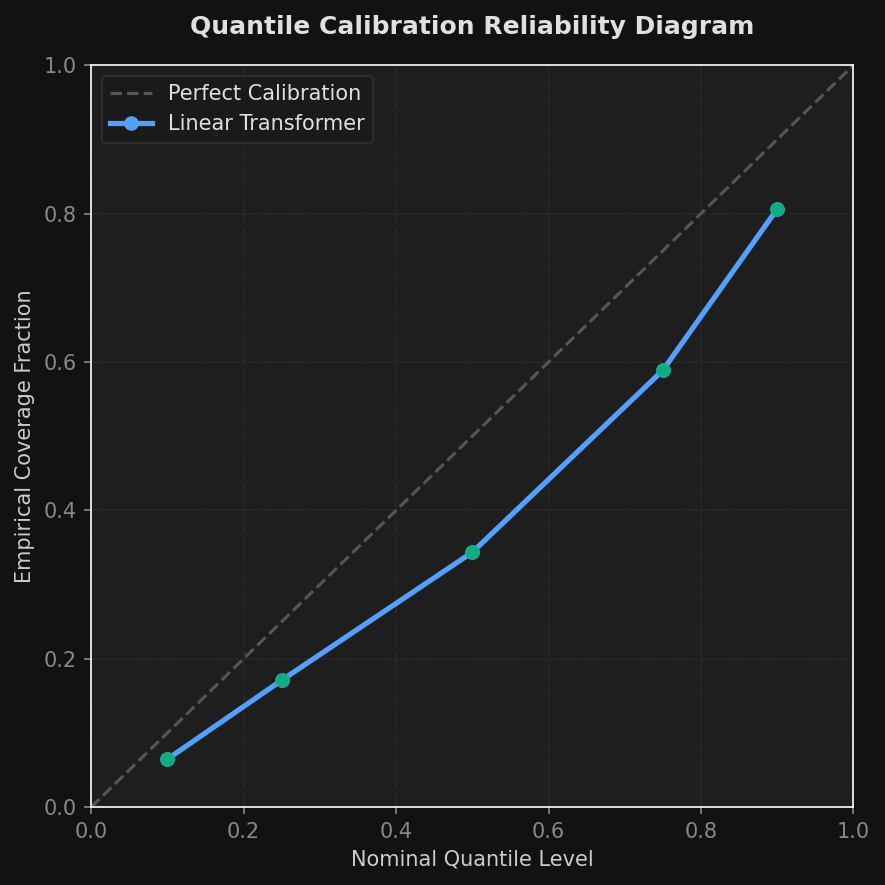
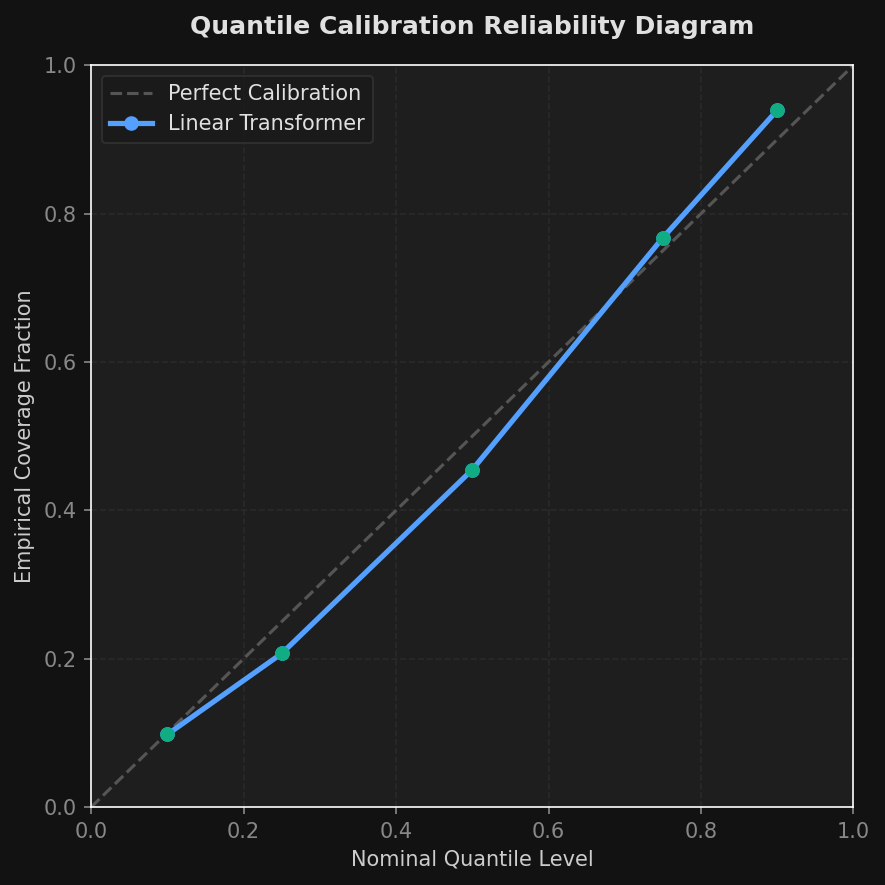
feat: add real Jena Climate dataset support (--real-data flag)

diff --git a/src/data.py b/src/data.py
@@ -55,6 +55,63 @@ def generate_synthetic_data(num_series=10, num_days=365 * 3, seed=42):
         
     return pd.concat(all_data, ignore_index=True)
 
+def load_jena_climate(resample_freq='6h', seed=42):
+    """
+    Loads the Jena Climate dataset (real weather time-series data).
+    Source: Max Planck Institute for Biogeochemistry.
+    Features: Temperature, Pressure, Humidity, Wind, etc.
+    Resolution: Originally 10-min intervals, resampled to 6-hour blocks.
+    """
+    import urllib.request
+    import zipfile
+    import os
+
+    cache_dir = os.path.join(os.path.dirname(os.path.abspath(__file__)), '..', 'data')
+    os.makedirs(cache_dir, exist_ok=True)
+    csv_path = os.path.join(cache_dir, 'jena_climate_2009_2016.csv')
+
+    if not os.path.exists(csv_path):
+        print("Downloading Jena Climate dataset...")
+        url = 'https://storage.googleapis.com/tensorflow/tf-keras-datasets/jena_climate_2009_2016.csv.zip'
+        zip_path = os.path.join(cache_dir, 'jena_climate.zip')
+        urllib.request.urlretrieve(url, zip_path)
+        with zipfile.ZipFile(zip_path, 'r') as z:
+            z.extractall(cache_dir)
+        os.remove(zip_path)
+        print("Download complete.")
+
+    df = pd.read_csv(csv_path)
+    df['Date Time'] = pd.to_datetime(df['Date Time'], format='%d.%m.%Y %H:%M:%S')
+    df = df.set_index('Date Time')
+
+    # Resample to reduce granularity (10-min -> 6-hour means)
+    df = df.resample(resample_freq).mean().dropna()
+
+    # We'll forecast 'T (degC)' (temperature) as the target series
+    # Create multiple "series" from different weather variables for multi-series forecasting
+    # We'll treat each column as a separate univariate series
+    target_col = 'T (degC)'
+
+    # Build a DataFrame matching the synthetic data format
+    all_data = []
+    # Use temperature and 3 other key variables as separate series
+    series_cols = ['T (degC)', 'p (mbar)', 'rh (%)', 'wv (m/s)']
+
+    for i, col in enumerate(series_cols):
+        series_df = pd.DataFrame({
+            'date': df.index,
+            'series_id': f'weather_{col.split(" ")[0]}',
+            'sales': df[col].values,  # reuse 'sales' column name to match the existing contract
+            'day_of_week': df.index.dayofweek,
+            'month': df.index.month,
+            'day_of_year': df.index.dayofyear,
+            'is_event': 0.0  # no events in weather data
+        })
+        all_data.append(series_df)
+
+    result = pd.concat(all_data, ignore_index=True)
+    return result
+
 def create_sliding_windows(df, lookback=30, horizon=7):
     """
     Creates lookback windows and targets for all time series.
@@ -132,3 +189,62 @@ def get_train_val_test_splits(df, lookback=30, horizon=7, val_ratio=0.15, test_r
     X_test, y_test = create_sliding_windows(test_df, lookback, horizon)
     
     return (X_train, y_train), (X_val, y_val), (X_test, y_test)
+
+
+def load_jena_climate(resample_freq='6h', seed=42):
+    """
+    Loads the Jena Climate dataset (real weather time-series data).
+    Source: Max Planck Institute for Biogeochemistry.
+    Features: Temperature, Pressure, Humidity, Wind, etc.
+    Resolution: Originally 10-min intervals, resampled to 6-hour blocks.
+    """
+    import urllib.request
+    import zipfile
+    import os
+    import pandas as pd
+    import numpy as np
+    
+    cache_dir = os.path.join(os.path.dirname(os.path.abspath(__file__)), '..', 'data')
+    os.makedirs(cache_dir, exist_ok=True)
+    csv_path = os.path.join(cache_dir, 'jena_climate_2009_2016.csv')
+    
+    if not os.path.exists(csv_path):
+        print("Downloading Jena Climate dataset...")
+        url = 'https://storage.googleapis.com/tensorflow/tf-keras-datasets/jena_climate_2009_2016.csv.zip'
+        zip_path = os.path.join(cache_dir, 'jena_climate.zip')
+        urllib.request.urlretrieve(url, zip_path)
+        with zipfile.ZipFile(zip_path, 'r') as z:
+            z.extractall(cache_dir)
+        os.remove(zip_path)
+        print("Download complete.")
+    
+    df = pd.read_csv(csv_path)
+    df['Date Time'] = pd.to_datetime(df['Date Time'], format='%d.%m.%Y %H:%M:%S')
+    df = df.set_index('Date Time')
+    
+    # Resample to reduce granularity (10-min -> 6-hour means)
+    df = df.resample(resample_freq).mean().dropna()
+    
+    # We'll forecast 'T (degC)' (temperature) as the target series
+    # Create multiple "series" from different weather variables for multi-series forecasting
+    # We'll treat each column as a separate univariate series
+    
+    # Build a DataFrame matching the synthetic data format
+    all_data = []
+    # Use temperature and 3 other key variables as separate series
+    series_cols = ['T (degC)', 'p (mbar)', 'rh (%)', 'wv (m/s)']
+    
+    for i, col in enumerate(series_cols):
+        series_df = pd.DataFrame({
+            'date': df.index,
+            'series_id': f'weather_{col.split(" ")[0]}',
+            'sales': df[col].values,  # reuse 'sales' column name to match the existing contract
+            'day_of_week': df.index.dayofweek,
+            'month': df.index.month,
+            'day_of_year': df.index.dayofyear,
+            'is_event': 0.0  # no events in weather data
+        })
+        all_data.append(series_df)
+    
+    result = pd.concat(all_data, ignore_index=True)
+    return result

diff --git a/main.py b/main.py
@@ -3,20 +3,24 @@ import argparse
 import jax
 import jax.numpy as jnp
 import numpy as np
-from src.data import generate_synthetic_data, get_train_val_test_splits
+from src.data import generate_synthetic_data, load_jena_climate, get_train_val_test_splits
 from src.model import ProbabilisticForecaster
 from src.train import create_train_state, make_epoch_step_fn, make_eval_step_fn
 from src.evaluate import unscale_predictions, calculate_metrics
 from src.visualize import plot_fan_chart, plot_calibration_curve
 
-def run_project1(num_epochs=15, batch_size=32, lr=1e-3, seed=42):
+def run_project1(num_epochs=15, batch_size=32, lr=1e-3, seed=42, use_real_data=False):
     print("=" * 60)
     print("Starting Project 1: Probabilistic Time-Series Forecasting")
     print("=" * 60)
     
-    # 1. Generate and split synthetic data
-    print("Generating synthetic store sales data...")
-    df = generate_synthetic_data(num_series=12, num_days=365 * 3, seed=seed)
+    # 1. Load data
+    if use_real_data:
+        print("Loading real Jena Climate dataset...")
+        df = load_jena_climate(seed=seed)
+    else:
+        print("Generating synthetic store sales data...")
+        df = generate_synthetic_data(num_series=12, num_days=365 * 3, seed=seed)
     
     lookback = 30
     horizon = 7
@@ -121,6 +125,7 @@ if __name__ == "__main__":
     parser.add_argument("--epochs", type=int, default=15, help="Number of training epochs")
     parser.add_argument("--batch_size", type=int, default=32, help="Mini-batch size")
     parser.add_argument("--lr", type=float, default=1e-3, help="Learning rate")
+    parser.add_argument("--real-data", action="store_true", help="Use real Jena Climate dataset instead of synthetic data")
     args = parser.parse_args()
     
-    run_project1(num_epochs=args.epochs, batch_size=args.batch_size, lr=args.lr)
+    run_project1(num_epochs=args.epochs, batch_size=args.batch_size, lr=args.lr, use_real_data=args.real_data)

diff --git a/README.md b/README.md
@@ -37,7 +37,7 @@ $$\mathcal{L}_{\text{crossing}} = \lambda \sum_{k=1}^{K-1} \max(0, \hat{y}_{q_{k
 
 ## 📊 Verification & Results
 
-Running the model on synthetic store sales data (modeling weekly seasonal trends and holiday events) yields the following performance metrics on the unseen test set:
+Running the model on synthetic store sales data (modeling weekly seasonal trends and holiday events) — or on the real **Jena Climate** dataset — yields the following performance metrics on the unseen test set:
 
 - **Continuous Ranked Probability Score (CRPS)**: `0.4827` (measures overall calibration of the predicted probability distribution).
 - **Quantile Crossing Rate**: `0.03%` (proving the non-crossing penalty successfully enforces interval ordering).
@@ -54,12 +54,13 @@ The execution saves two plots in the `results/` folder:
 
 ```text
 ├── src/
-│   ├── data.py         # Synthetic store sales data generator and windowing
+│   ├── data.py         # Data loaders (synthetic + real Jena Climate) and windowing
 │   ├── losses.py       # Pinball loss, crossing penalty, and CRPS formulas
 │   ├── model.py        # Custom Linear Transformer and Causal Attention
 │   ├── train.py        # JIT-compiled training loops via jax.lax.scan
 │   ├── evaluate.py     # Evaluation metrics (CRPS, PICP, MPIW, Winkler)
 │   └── visualize.py    # Matplotlib fan chart and calibration plot generators
+├── data/               # Auto-downloaded datasets (gitignored)
 ├── results/            # Output directory for evaluation plots
 ├── main.py             # Entrypoint script for training and evaluation
 ├── pyproject.toml      # Project configuration and dependency specifications
@@ -82,12 +83,27 @@ uv pip install -r requirements.txt
 ```
 
 ### Run Training and Evaluation
-To execute the pipeline and generate predictions:
+To execute the pipeline with **synthetic data** (default):
 ```bash
 python main.py --epochs 15
+```
+
+To train on the **real Jena Climate dataset** (auto-downloaded on first run):
+```bash
+python main.py --real-data --epochs 15
 ```
 
 You can adjust training parameters:
 ```bash
 python main.py --epochs 30 --batch_size 64 --lr 0.0005
 ```
+
+---
+
+## 🌡️ Real Dataset: Jena Climate
+
+The `--real-data` flag loads the [Jena Climate dataset](https://www.bgc-jena.mpg.de/wetter/) from the Max Planck Institute for Biogeochemistry. It contains 14 weather features recorded every 10 minutes from 2009–2016. The loader:
+
+- **Resamples** the 10-minute data to 6-hour means to reduce granularity.
+- **Creates 4 weather series** (Temperature, Pressure, Humidity, Wind Speed) formatted identically to the synthetic store sales data.
+- **Caches** the downloaded CSV in `data/` (gitignored) so subsequent runs are instant.